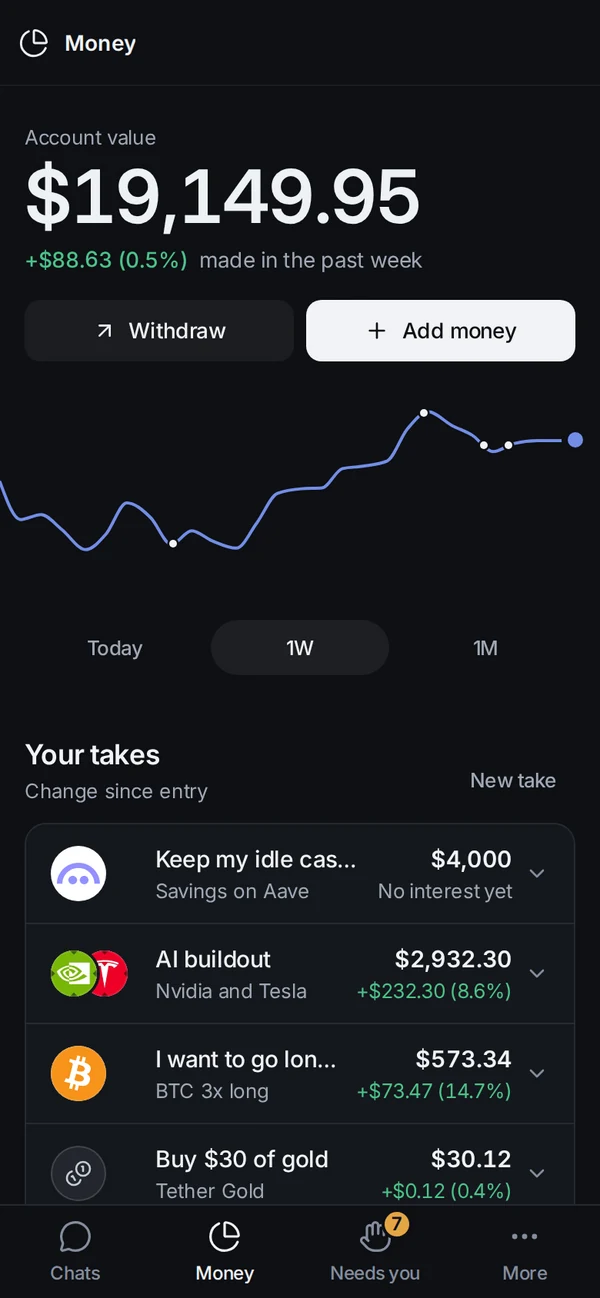
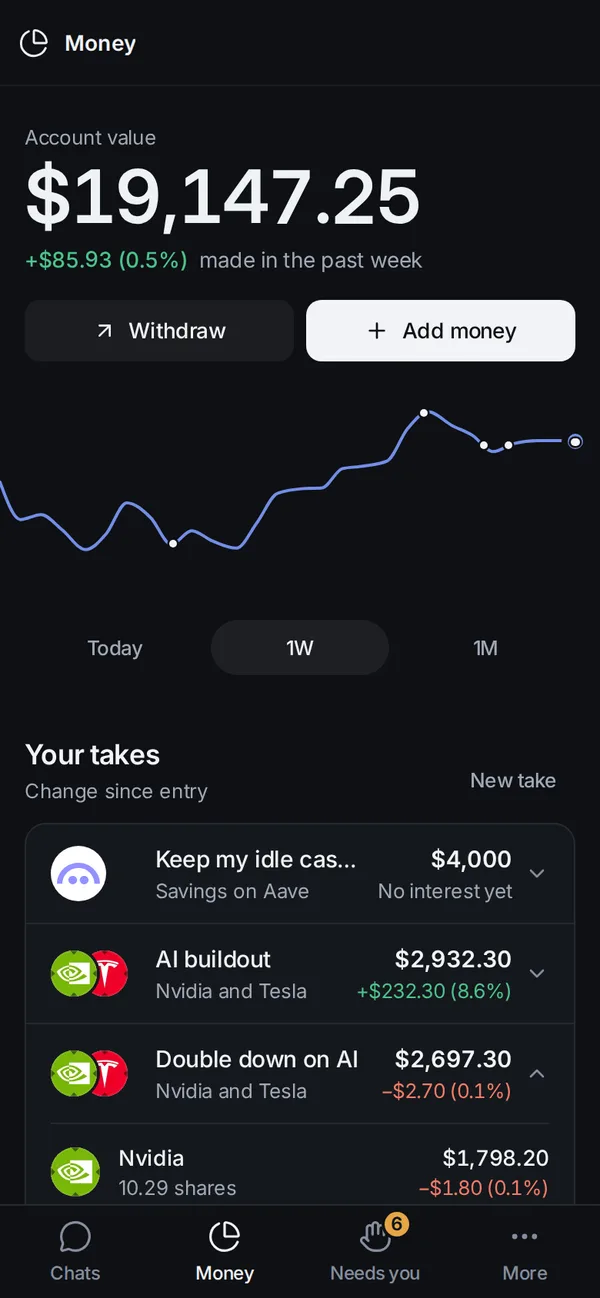
README: one take from its card to Money, retaken after the seams

diff --git a/README.md b/README.md
@@ -34,21 +34,21 @@
     <td width="33%" valign="top">
       <picture>
         <source media="(prefers-color-scheme: dark)" srcset="docs/screens/1-take-dark.webp">
-        <img src="docs/screens/1-take-light.webp" alt="Auni's new chat on a phone, asking: What's the take, Sam?">
+        <img src="docs/screens/1-take-light.webp" alt="A chat on a phone: the owner says the AI buildout has years to run, and Auni answers with its reasoning and a card to buy $1,800 of Nvidia and $900 of Tesla, $2,700 to put in.">
       </picture>
       <p><b>1. Say what you think.</b><br>"The AI buildout has years to run." Auni digs into it with your own AI.</p>
     </td>
     <td width="33%" valign="top">
       <picture>
         <source media="(prefers-color-scheme: dark)" srcset="docs/screens/2-allowed-dark.webp">
-        <img src="docs/screens/2-allowed-light.webp" alt="The same take after the owner tapped: the card now reads Both went through, Bought Nvidia $1,800 and Bought Tesla $900.">
+        <img src="docs/screens/2-allowed-light.webp" alt="The same chat after the owner tapped: the card now reads Both went through, Bought Nvidia $1,800 and Bought Tesla $900.">
       </picture>
       <p><b>2. Tap the card.</b><br>Each move is a card with the exact amounts. It settles in place once it lands.</p>
     </td>
     <td width="33%" valign="top">
       <picture>
         <source media="(prefers-color-scheme: dark)" srcset="docs/screens/3-money-dark.webp">
-        <img src="docs/screens/3-money-light.webp" alt="Auni's Money page on a phone: $19,149.95 account value, and each take with its value and change since entry.">
+        <img src="docs/screens/3-money-light.webp" alt="Money on a phone: the same take, Double down on AI, now a take worth $2,697.30 holding Nvidia and Tesla, beside the others with their change since entry.">
       </picture>
       <p><b>3. Watch it as a position.</b><br>Money shows every take, what it holds, and how it's doing.</p>
     </td>
